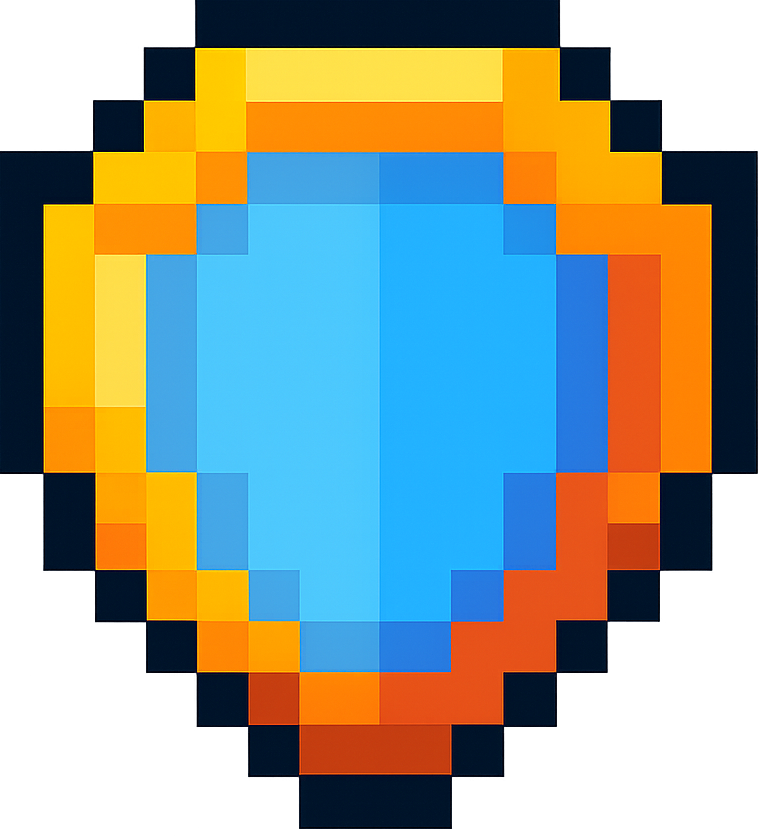
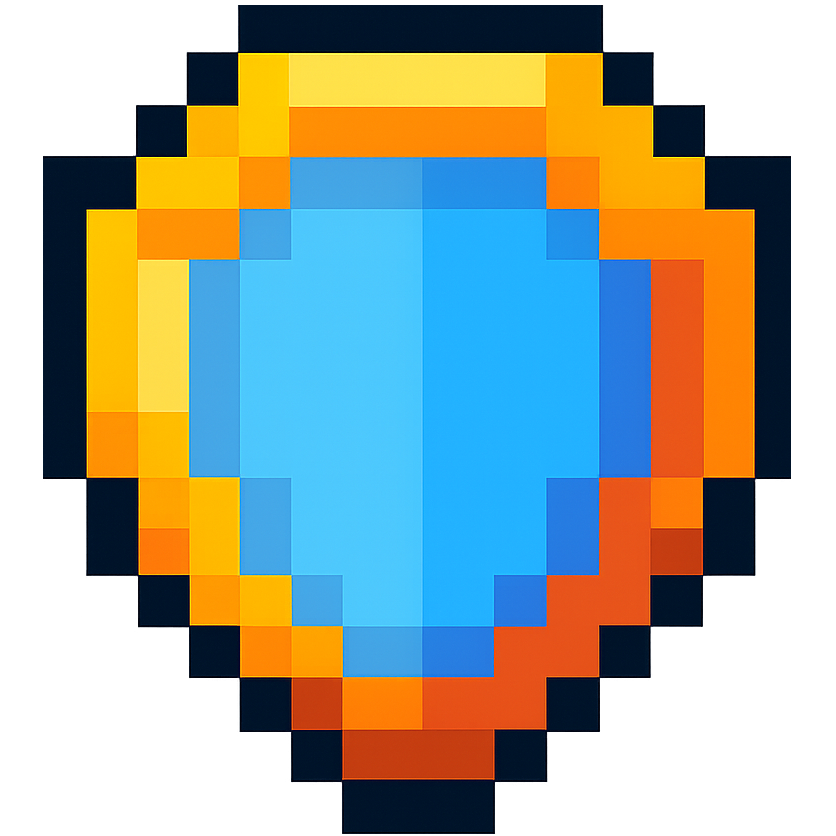
sprite for speedup bonus

Changed region(s): [[0.0, 0.0, 1.0, 1.0]]

diff --git a/car/game.js b/car/game.js
@@ -6,12 +6,14 @@ const images = {
     enemyCar: new Image(),
     heart: new Image(),
     shield: new Image(),
+    speedup: new Image(),
 };
 
 images.playerCar.src = "static/green_car.png";
 images.enemyCar.src = "static/red_car.png";
 images.heart.src = "static/heart.png";
 images.shield.src = "static/shield.png";
+images.speedup.src = "static/speedup.png";
 
 const DIFFICULTY_SETTINGS = {
     easy: {
@@ -32,27 +34,39 @@ const DIFFICULTY_SETTINGS = {
     },
 };
 
+const DEFAULT_WIDTH = 40;
+
 const CAR_DIMENSIONS = {
-    width: 40,
+    width: DEFAULT_WIDTH,
     height: 70,
 };
+
+
 
 const BONUS_CONFIG = {
     types: {
         speedup: {
-            color: '#3399ff',
-            radius: 15,
             duration: 20000, // 20 seconds
             speedMultiplier: 2, // 100% speed increase
             movingSpeed: 0.5,
+            image: images.speedup,
+            width: DEFAULT_WIDTH,
+            height: DEFAULT_WIDTH,
+            glow: {
+                color: '#3399ff',
+                size: 15,
+            },
         },
         shield: {
-            color: '#ffcc00', // Kept for fallback/shadow
             duration: 10000, // 10 seconds
             image: images.shield,
-            width: 759 * 0.05,
-            height: 836 * 0.05,
+            width: DEFAULT_WIDTH,
+            height: DEFAULT_WIDTH,
             movingSpeed: 0.5,
+            glow: {
+                color: '#ffcc00',
+                size: 15,
+            },
         }
     },
     spawnFrequency: 300, // Spawn bonus every 300 frames
@@ -232,24 +246,33 @@ function updateBonuses() {
     }
 }
 
+function drawBonus(bonus, config, alpha = 1.0) {
+    ctx.globalAlpha = alpha;
+    
+    if (config.image) {
+        ctx.drawImage(config.image, bonus.x, bonus.y, bonus.width, bonus.height);
+    } else if (config.color) {
+        ctx.fillStyle = config.color;
+        ctx.beginPath();
+        const radius = bonus.width / 2;
+        ctx.arc(bonus.x + radius, bonus.y + radius, radius, 0, 2 * Math.PI);
+        ctx.fill();
+    } else {
+        console.log('Cannot draw bonus:', bonus);
+    }
+    
+    ctx.globalAlpha = 1.0;
+}
+
 function drawBonuses() {
     gameState.bonuses.forEach(bonus => {
         const config = BONUS_CONFIG.types[bonus.type];
-        if (config.image) {
-            ctx.drawImage(config.image, bonus.x, bonus.y, bonus.width, bonus.height);
-        } else { // Draw a circle for other bonuses
-            ctx.fillStyle = config.color;
-            ctx.beginPath();
-            const radius = bonus.width / 2;
-            ctx.arc(bonus.x + radius, bonus.y + radius, radius, 0, 2 * Math.PI);
-            ctx.fill();
-            
-            // Add a subtle glow effect
-            ctx.shadowColor = config.color;
-            ctx.shadowBlur = 10;
-            ctx.beginPath();
-            ctx.arc(bonus.x + radius, bonus.y + radius, radius, 0, 2 * Math.PI);
-            ctx.fill();
+        if (config.glow) {
+            ctx.shadowColor = config.glow.color;
+            ctx.shadowBlur = config.glow.size;
+        }
+        drawBonus(bonus, config);
+        if (config.glow) {
             ctx.shadowBlur = 0;
         }
     });
@@ -533,10 +556,10 @@ function runGameLoop() {
     
     drawRoadLines();
     drawPlayerCar();
-    updateObstacles();
-    drawObstacles();
     updateBonuses();
     drawBonuses();
+    updateObstacles();
+    drawObstacles();
     
     updateInvincibility();
     updateActiveBonuses();

diff --git a/car/index.html b/car/index.html
@@ -20,15 +20,13 @@
   <div id="bonusDisplay" class="bonus-display">
     <div id="speedupBonus" class="active-bonus hidden">
         <div class="bonus-container">
-            <div class="bonus-icon speedup"></div>
-            <span class="bonus-name">speed</span>
+            <img src="static/speedup.png" class="bonus-icon speedup" />
             <span class="bonus-time">0s</span>
         </div>
     </div>
     <div id="shieldBonus" class="active-bonus hidden">
         <div class="bonus-container">
             <img src="static/shield.png" class="bonus-icon shield" />
-            <span class="bonus-name">shield</span>
             <span class="bonus-time">0s</span>
         </div>
     </div>

diff --git a/car/style.css b/car/style.css
@@ -81,14 +81,12 @@ body {
     display: flex;
     flex-direction: row;
     justify-content: center;
-    gap: 10px;
     margin-bottom: 15px;
     height: 38px; /* Pre-allocate space to avoid layout shift */
 }
 
 .bonus-container {
     display: flex;
-    gap: 0.5rem;
 }
 
 .active-bonus {
@@ -119,8 +117,8 @@ body {
 }
 
 .bonus-icon.speedup {
-    background-color: #3399ff;
-    box-shadow: 0 0 8px rgba(51, 153, 255, 0.6);
+    background-color: transparent;
+    box-shadow: none;
 }
 
 .bonus-icon.shield {
